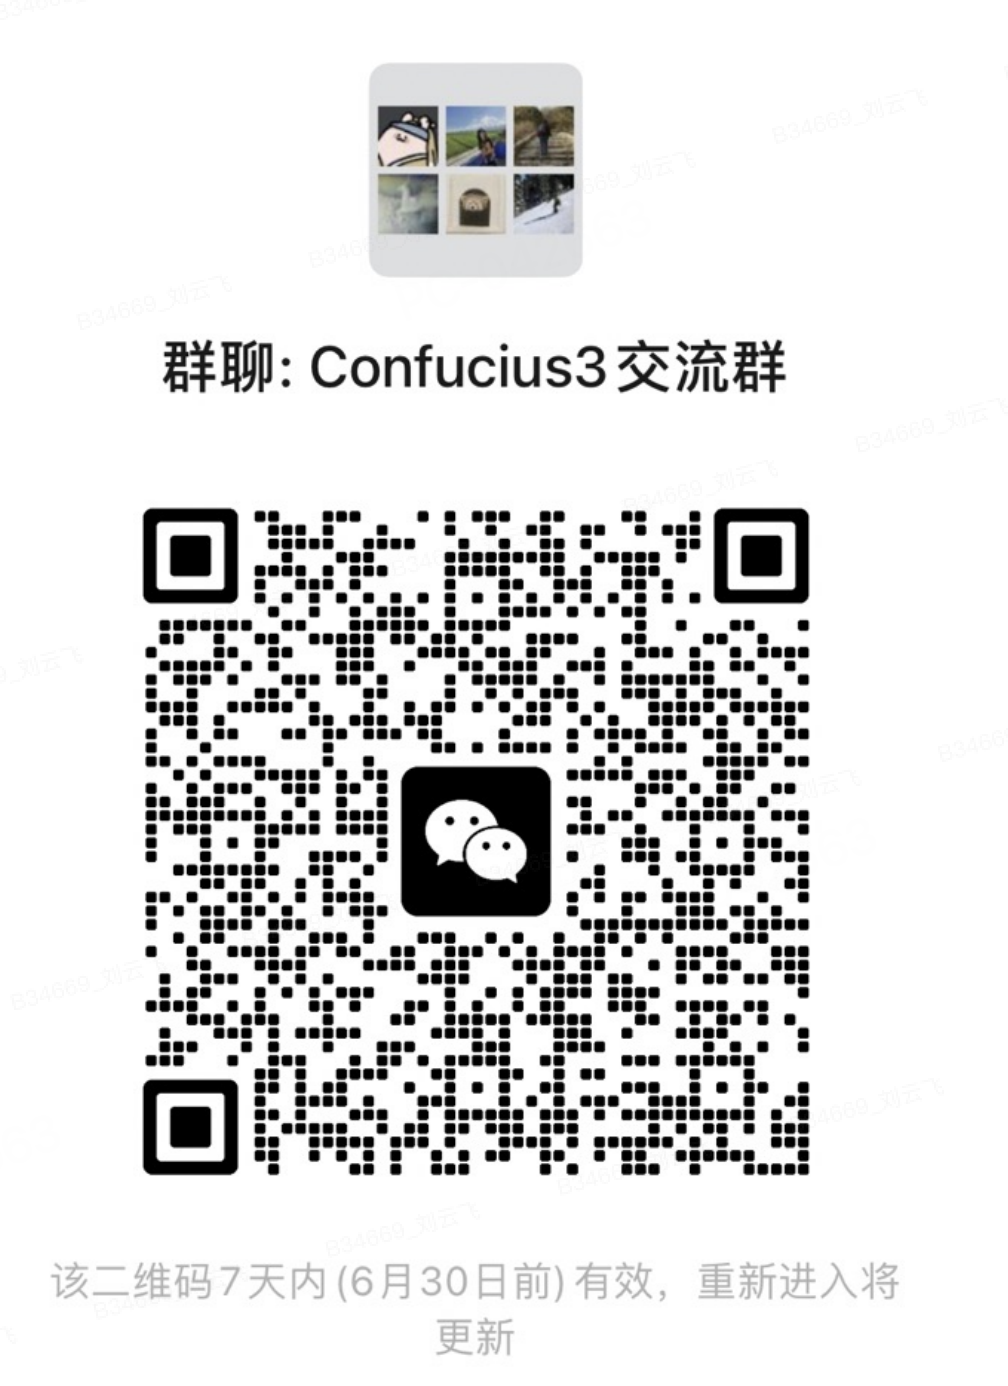
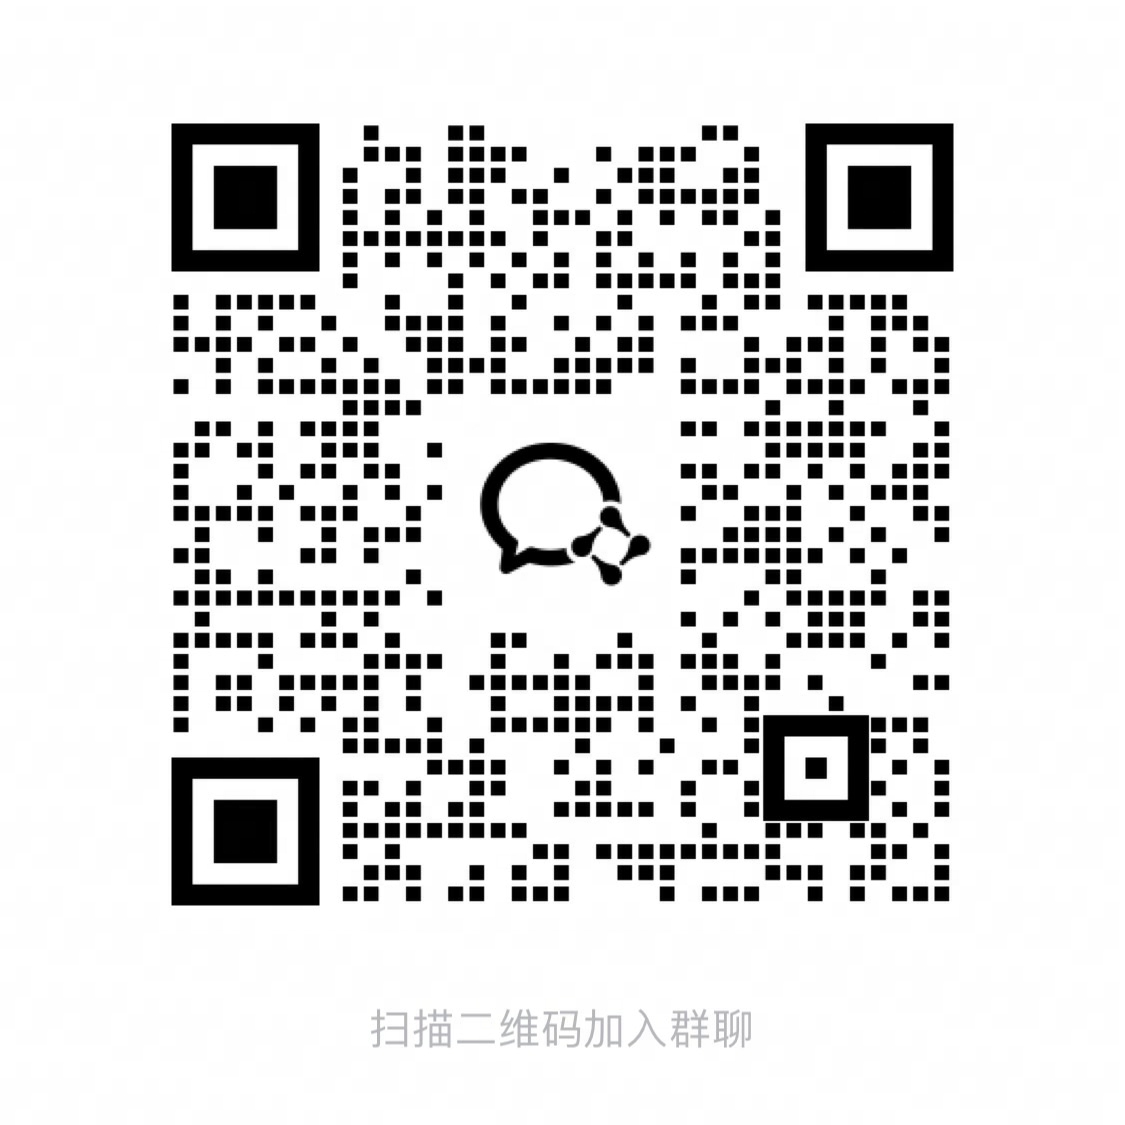
update wechat QRcode

Changed region(s): [[0.123, 0.0311, 0.8611, 0.8711], [0.0615, 0.9022, 0.8919, 0.9956]]

diff --git a/README_cn.md b/README_cn.md
@@ -162,6 +162,14 @@ export ARK_API_KEY=xxx
 bash run_service_stream.sh
 ```
 
+
+## 微信交流群
+
+欢迎大家踊跃试用和反馈，技术讨论请扫码加入官方微信交流群。
+
+<img src="./assets/wechat.png" width="60%" height="auto">
+
+
 ## 引用
 如果你觉得我们的工作有帮助，欢迎引用我们的成果。
 ```

diff --git a/README.md b/README.md
@@ -166,6 +166,12 @@ export ARK_API_KEY=xxx
 bash run_service_stream.sh
 ```  
 
+## WeChat Group
+
+Welcome to scan the QR code below and join the WeChat group.
+
+<img src="./assets/wechat.png" width="60%" height="auto">
+
 
 ## Citation
 If you find our work helpful, feel free to give us a cite.
